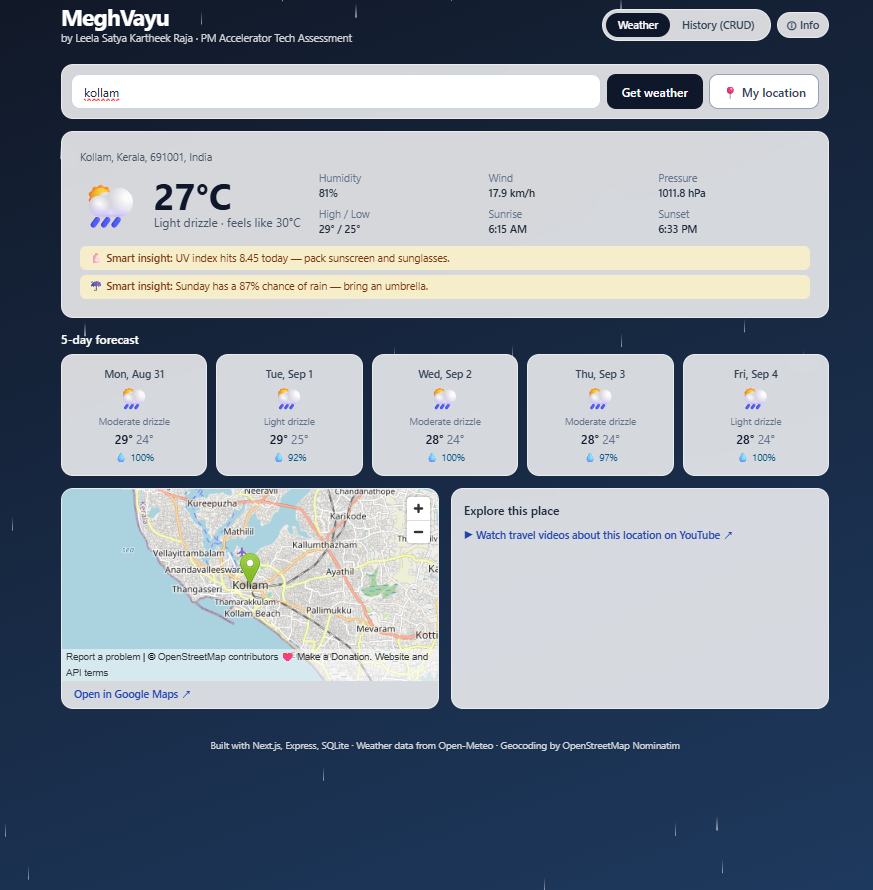
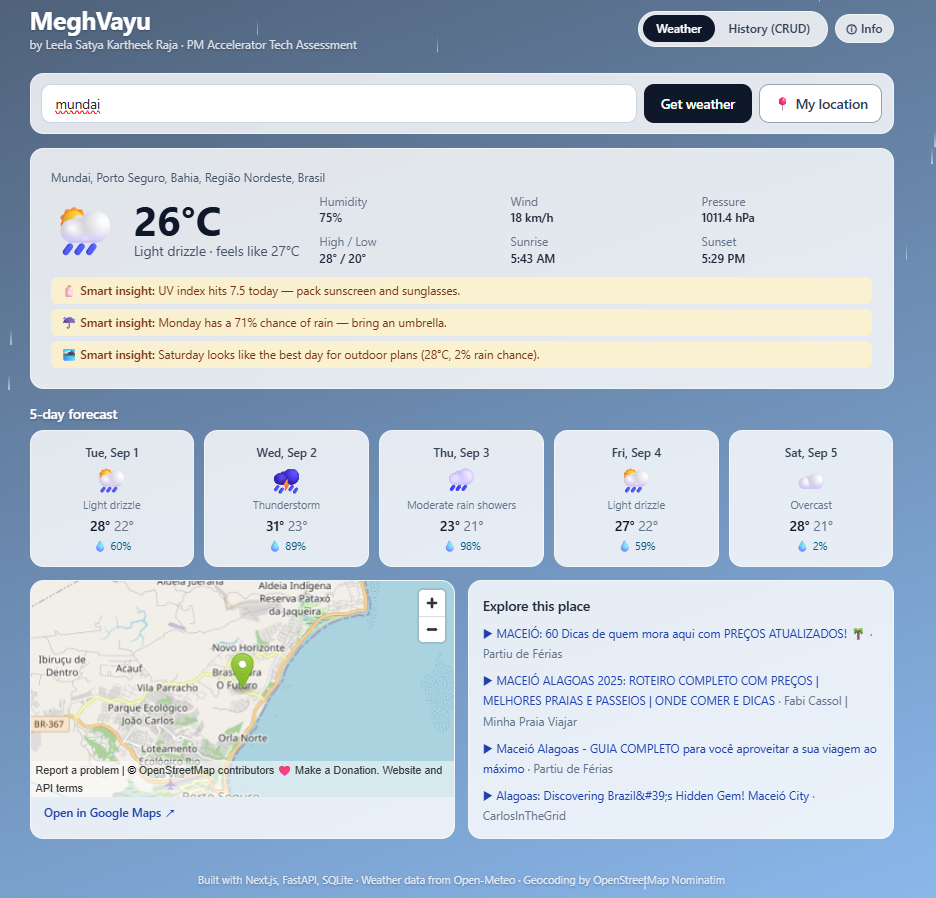
Final README with video link and updated screenshots

diff --git a/README.md b/README.md
@@ -1,38 +1,48 @@
-# MeghVayu : Full-Stack Weather App
+# MeghVayu : Full Stack Weather App
 
 **PM Accelerator : AI Engineer Intern Technical Assessment (Full Stack: Assessment #1 + #2)**
 
 Built by: **Leela Satya Kartheek Raja**
 
-A full-stack weather application: real-time conditions and a 5-day forecast on the frontend, plus a REST API with database persistence (CRUD), validation, multi-format export, and additional API integrations on the backend. *MeghVayu* means "cloud and wind" in Telugu.
+A full stack weather application: real time conditions and a 5 day forecast on the frontend, plus a REST API with database persistence (CRUD), validation, multi format export, and additional API integrations on the backend. *MeghVayu* means "cloud and wind" in Telugu.
 
-**Stack:** Next.js (JavaScript) frontend + **Python (FastAPI)** backend with SQLite, as required for the Full Stack track. An equivalent Node/Express implementation of the same API is included in `backend-node/`: both backends expose identical endpoints and JSON shapes, pass the same 17-test suite, and can be swapped without touching the frontend.
+**Stack:** Next.js (JavaScript) frontend + **Python (FastAPI)** backend with SQLite, as required for the Full Stack track. An equivalent Node/Express implementation of the same API is included in `backend-node/`: both backends expose identical endpoints and JSON shapes, pass the same 17 test suite, and can be swapped without touching the frontend.
 
 ## 🔗 Live demo
 
 - **App:** [meghvayu](https://meghvayu.vercel.app/)
 <!-- - **API health check:** [API Health Check for backend-node](https://meghvayu-api.onrender.com/api/health) -->
 - **API health check:** [API Health Check for backend](https://meghvayu-api.onrender.com/api/health)
-- **API docs (auto-generated by FastAPI):** [meghvayu-api.onrender.com/docs](https://meghvayu-api.onrender.com/docs)
-- **Demo video:** ADD_YOUR_VIDEO_LINK
+- **API docs (auto generated by FastAPI):** [meghvayu-api.onrender.com/docs](https://meghvayu-api.onrender.com/docs)
+- **Demo video:** [Demo Video Link](https://youtu.be/AyEFckeBMoc)
 - The live deployment has both optional integrations enabled: OpenWeatherMap fallback and YouTube video listings.
 
-> Note: the backend runs on Render's free tier and sleeps when idle, so the first request may take about 30 seconds to wake up. Free-tier storage resets on redeploy, so saved records are not permanent on the live demo.
+> Note: the backend runs on Render's free tier and sleeps when idle, so the first request may take about 30 seconds to wake up. Free tier storage resets on redeploy, so saved records are not permanent on the live demo.
 
 ## Highlights
 
 - Both assessments (frontend + backend) in one integrated app
 - **17 unit tests** on validation, insights and provider logic : `cd backend && pytest`
-- **Smart insights**: rule-based analysis of the forecast produces traveler advice (pack layers, umbrella day, best outdoor day)
-- **Production resilience**: retry with backoff, 10-minute response cache, and an automatic fallback weather provider (added after a real rate-limit incident, see Debugging notes)
-- Condition-driven UI: background theme + ambient particles (rain/snow/stars/lightning) follow live weather; honors `prefers-reduced-motion`
+- **Smart insights**: rule based analysis of the forecast produces traveler advice (pack layers, umbrella day, best outdoor day)
+- **Production resilience**: every external dependency (weather and geocoding) has retry with backoff, an in memory cache, and an automatic fallback provider added after real rate limit incidents in production (see Debugging notes)
+- Condition driven UI: background theme + ambient particles (rain/snow/stars/lightning) follow live weather; honors `prefers-reduced-motion`
 - Zero API keys required to run locally
+
+
+## ⭐ What makes MeghVayu stand out
+
+- **Two complete backends, one API contract.** Python/FastAPI (primary) and Node/Express (reference) expose identical endpoints and pass identical 17 test suites, the twin suite is how the Python port was verified.
+- **No single point of failure.** Weather and geocoding each have retry with backoff, an in memory cache, and an automatic fallback provider. The app survived two real production rate limit incidents during development without user visible downtime after the fixes.
+- **Smart Insights.** A rule based engine turns raw forecast numbers into traveler decisions: pack layers, umbrella day, best outdoor day.
+- **Five documented debugging stories.** Real issues found and fixed the international zip code collisions, Excel encoding, native module builds, and shared IP rate limiting written up in Debugging notes below.
+- **Condition driven experience.** The theme and ambient particles (rain, snow, stars, lightning) follow the live weather of the searched city, with `prefers-reduced-motion` respected.
+- **Reviewer friendly by design.** Runs locally with zero API keys and zero database setup, deployed live with auto generated API docs, and fully documented in this README.
 
 ---
 
 ## Smart Insights engine
 
-The backend includes a rule-based insights engine (`backend/services/insights.py`) that analyzes
+The backend includes a rule based insights engine (`backend/services/insights.py`) that analyzes
 live forecast data and generates actionable traveler advice, the "what's not obvious" thinking
 the assessment asks for:
 
@@ -40,18 +50,18 @@ the assessment asks for:
 - **Temperature swings ≥8°C across the week** → pack layers
 - **First day with ≥60% rain probability** → umbrella advice, day named
 - **Winds ≥35 km/h** → wind warning
-- **Extreme heat (≥35°C) / sub-freezing days** → safety notes
+- **Extreme heat (≥35°C) / sub freezing days** → safety notes
 - **Best outdoor day** → scores each day on rain, wind, and distance from ideal temperature
 
-Insights are computed server-side per request, capped at 4 for scannability, and unit-tested.
+Insights are computed server side per request, capped at 4 for scannability, and unit tested.
 
 **Design note:** this is deliberately deterministic rules rather than an LLM call : zero latency,
-zero cost, fully testable. The architecture supports swapping in an LLM for natural-language
+zero cost, fully testable. The architecture supports swapping in an LLM for natural language
 weather summaries as a next step.
 
 ## Screenshots
 
-##### Live weather with condition-driven theme and smart insights
+##### Live weather with condition driven theme and smart insights
 ![Live weather with smart insights](screenshots/weather.png)
 
 ##### Weather history : CRUD with database persistence and exports
@@ -69,13 +79,13 @@ weather summaries as a next step.
 
 | Layer | Technology | Why |
 |---|---|---|
-| Frontend | **Next.js 14 (React)** + Tailwind CSS | JS framework per assessment rules; responsive, web-first |
+| Frontend | **Next.js 14 (React)** + Tailwind CSS | JS framework per assessment rules; responsive, web first |
 | Backend | **Python 3.11+ + FastAPI** (uvicorn) | RESTful API with automatic OpenAPI docs at `/docs`; Python per the Full Stack track requirement |
-| Database | **SQLite** (Python standard library `sqlite3`) | Zero-config persistence, reviewers can run it with no DB setup |
+| Database | **SQLite** (Python standard library `sqlite3`) | Zero config persistence, reviewers can run it with no DB setup |
 | Alt. backend | Node.js + Express (`backend-node/`) | Same API contract; included as a reference implementation |
-| Weather data (primary) | **Open-Meteo** (forecast + historical archive APIs) | Free, no API key, supports past date ranges |
-| Weather data (fallback) | **OpenWeatherMap** (optional key) | Per-key limits, keeps the live site working when the primary provider is rate-limited |
-| Geocoding | **OpenStreetMap Nominatim** | Free fuzzy matching for cities, zips, landmarks, coordinates |
+| Weather data (primary) | **Open Meteo** (forecast + historical archive APIs) | Free, no API key, supports past date ranges |
+| Weather data (fallback) | **OpenWeatherMap** (optional key) | Per key limits, keeps the live site working when the primary provider is rate limited |
+| Geocoding | **OpenStreetMap Nominatim** (primary) + **OpenWeatherMap Geocoding** (fallback) | Free fuzzy matching for cities, zips, landmarks, coordinates; fallback keeps search working when Nominatim throttles the shared host IP |
 | Extra APIs | OpenStreetMap embed, Google Maps link, **YouTube Data API v3** (optional key) | Assessment section 2.2 : map data + real video listings for the searched location |
 
 No API keys are required to run the app locally. Two optional keys unlock extras:
@@ -123,25 +133,25 @@ Run either backend, not both at once (they share port 4000).
 ## Assessment 1 [Frontend features]
 
 - **Flexible location input**: one search box accepts city, town, zip/postal code, landmarks ("Eiffel Tower"), or raw GPS coordinates ("40.71,-74.00"). Input is geocoded with fuzzy matching, and the resolved place name is always shown so the user can confirm.
-- **Current location**: "📍 My location" uses the browser Geolocation API (with permission-denied and timeout handling).
-- **Current weather display**: temperature, feels-like, condition + icon, humidity, wind, pressure, high/low, sunrise/sunset.
-- **5-day forecast** (§1.1): responsive card grid with icons, conditions, highs/lows, and precipitation chance.
+- **Current location**: "📍 My location" uses the browser Geolocation API (with permission denied and timeout handling).
+- **Current weather display**: temperature, feels like, condition + icon, humidity, wind, pressure, high/low, sunrise/sunset.
+- **5 day forecast** (§1.1): responsive card grid with icons, conditions, highs/lows, and precipitation chance.
 - **Error handling** (§1.2): location not found, backend unreachable, upstream API failure, geolocation denied, empty input. Each shows a clear, actionable message.
-- **Responsive design**: Tailwind mobile-first breakpoints (`sm/md/lg`), fluid grids (2→3→5 forecast columns), flexible search bar layout. Works on phone, tablet, and desktop.
+- **Responsive design**: Tailwind mobile first breakpoints (`sm/md/lg`), fluid grids (2→3→5 forecast columns), flexible search bar layout. Works on phone, tablet, and desktop.
 - **Traveler-minded extras**: smart insights, sunrise/sunset for planning, and a signature touch: the page background theme and ambient effects shift with live conditions (clear/cloudy/rain/snow/storm, day vs night).
 
 ## Assessment 2 [Backend features]
 
-REST API (all JSON, central error handler, auto-generated OpenAPI docs at `/docs`):
+REST API (all JSON, central error handler, auto generated OpenAPI docs at `/docs`):
 
 | Method | Endpoint | Purpose |
 |---|---|---|
 | GET | `/api/health` | Health check |
-| GET | `/api/weather?location=…` or `?lat=…&lon=…` | Current weather + 5-day forecast + insights |
+| GET | `/api/weather?location=…` or `?lat=…&lon=…` | Current weather + 5 day forecast + insights |
 | POST | `/api/records` | **CREATE** : location + date range → fetches real temps → stores |
 | GET | `/api/records` | **READ** all stored records |
 | GET | `/api/records/:id` | **READ** one record |
-| PUT | `/api/records/:id` | **UPDATE** : re-validates; re-fetches temps if location/range changed |
+| PUT | `/api/records/:id` | **UPDATE** : revalidates; refetches temps if location/range changed |
 | DELETE | `/api/records/:id` | **DELETE** a record |
 | GET | `/api/export?format=json\|csv\|xml\|markdown` | **Export** (§2.3) all records as file download |
 | GET | `/api/extras?location=…` | **§2.2** : map embed + Google Maps link + YouTube videos |
@@ -149,15 +159,15 @@ REST API (all JSON, central error handler, auto-generated OpenAPI docs at `/docs
 **API integration** (§2.2): `/api/extras` returns an embedded map centered on the geocoded coordinates, a Google Maps deep link, and YouTube travel videos for the location. Videos are fetched from the YouTube Data API v3 when `YOUTUBE_API_KEY` is set (as on the live demo) and fall back to a search link otherwise.
 
 **Validation** (§2.1):
-- Date ranges: format, real calendar dates (rejects 2024-02-31), start ≤ end, ≤31 days, within Open-Meteo's data window (1940 → +16 days).
+- Date ranges: format, real calendar dates (rejects 2024-02-31), start ≤ end, ≤31 days, within Open Meteo's data window (1940 → +16 days).
 - Locations: must resolve via geocoder (fuzzy match allowed); clear 404 with suggestions if not found.
-- Updates: same validation; `temperature_data` is always re-derived from the APIs when location/dates change, so stored weather can never contradict the stored location. Users edit location/dates/notes, not raw temperatures.
+- Updates: same validation; `temperature_data` is always rederived from the APIs when location/dates change, so stored weather can never contradict the stored location. Users edit location/dates/notes, not raw temperatures.
 
 **Design decisions**:
-- Historical ranges use Open-Meteo's archive API; near-future ranges use the forecast API. The correct source is chosen automatically.
+- Historical ranges use Open Meteo's archive API; near future ranges use the forecast API. The correct source is chosen automatically.
 - SQLite chosen deliberately: reviewers clone and run with zero database setup. Swappable for Postgres via the single `db.py` module.
-- FastAPI chosen for the backend: type-hinted request handling, automatic OpenAPI documentation, and it is the natural home for future AI/ML features (the role is AI Engineer).
-- Weather requests go through a retry-with-backoff layer and a 10-minute in-memory cache; if the primary provider fails, the backend transparently switches to OpenWeatherMap and normalizes its data into the same response shape, so the frontend never changes.
+- FastAPI chosen for the backend: type hinted request handling, automatic OpenAPI documentation, and it is the natural home for future AI/ML features (the role is AI Engineer).
+- Weather requests go through a retry with backoff layer and a 10 minute in memory cache; if the primary provider fails, the backend transparently switches to OpenWeatherMap and normalizes its data into the same response shape, so the frontend never changes. Geocoding follows the same pattern: Nominatim primary with a 1 hour cache, OpenWeatherMap Geocoding API as fallback (including US zip and reverse lookups). No external dependency is a single point of failure.
 
 ## Project structure
 
@@ -166,31 +176,33 @@ backend/                   Python / FastAPI (primary)
   main.py                  App, CORS, central error handling
   db.py                    SQLite schema + connection
   errors.py                ApiError -> clean JSON error responses
-  services/geocode.py      Nominatim geocoding (fuzzy, zips, landmarks, GPS)
-  services/weather.py      Open-Meteo calls, retry/cache layer, date-range validation
-  services/openweather.py  OpenWeatherMap fallback provider (normalized to Open-Meteo shape)
-  services/insights.py     Rule-based smart insights engine
+  services/geocode.py      Nominatim geocoding + cache + OWM geocoding fallback
+  services/weather.py      Open Meteo calls, retry/cache layer, date range validation
+  services/openweather.py  OpenWeatherMap fallback provider (normalized to Open Meteo shape)
+  services/insights.py     Rule based smart insights engine
   routes/                  weather, records (CRUD), export, extras
   tests/                   Unit tests (pytest)
   requirements.txt
 backend-node/              Node.js / Express reference implementation of the same API
   server.js                Express app + central error handling
-  db.js                    SQLite (better-sqlite3) schema + connection
+  db.js                    SQLite (better sqlite3) schema + connection
   services/                geocode, weather (retry/cache), openweather (fallback), insights
   routes/                  weather, records (CRUD), export, extras
   tests/                   Unit tests (node:test)
   package.json
 frontend/
-  app/                     Next.js app router pages + condition-driven theming
+  app/                     Next.js app router pages + condition driven theming
   components/              WeatherPanel, RecordsPanel (CRUD UI), WeatherEffects, shared lib
 ```
 
 ## Debugging notes (real issues found & fixed)
 
-1. **Ambiguous zip codes resolved internationally.** Testing with `76201` (Denton, TX) returned Šiauliai, Lithuania : Nominatim matched the digits to a foreign postal code. Fix: bare 5-digit codes are now biased to `countrycodes=us`, while longer codes (e.g., Indian 6-digit PINs) and "zip, country" queries still resolve worldwide. Verified with mixed US/India test data.
-2. **CSV exports showed garbled characters in Excel.** Non-ASCII place names (Cyrillic, Lithuanian) rendered as mojibake because Excel doesn't assume UTF-8. Fix: prepend a UTF-8 BOM to CSV output.
-3. **Node 24 native-module build failure** (Node reference backend). `better-sqlite3@11` had no prebuilt binary for Node 24 and attempted a source compile requiring Visual Studio C++ tools. Fix: upgraded to `better-sqlite3@^12`, which ships Node 24 prebuilds. The Python backend avoids native modules entirely by using the standard-library `sqlite3`.
-4. **Shared-IP rate limiting in production.** After deploying to Render's free tier, weather requests started failing. The generic error hid the cause, so the first fix was surfacing the upstream status: `HTTP 429, Daily API request limit exceeded`. Render's free tier shares one outbound IP across many apps, and Open-Meteo's 10,000/day per-IP limit had been exhausted by other tenants. Fix: retry with backoff, a 10-minute response cache, and an automatic fallback to OpenWeatherMap (per-key limits, immune to shared IPs), normalized into the same response shape so no frontend changes were needed. Localhost was never affected because it uses its own IP.
+1. **Ambiguous zip codes resolved internationally.** Testing with `76201` (Denton, TX) returned Šiauliai, Lithuania : Nominatim matched the digits to a foreign postal code. Fix: bare 5 digit codes are now biased to `countrycodes=us`, while longer codes (e.g., Indian 6 digit PINs) and "zip, country" queries still resolve worldwide. Verified with mixed US/India test data.
+2. **CSV exports showed garbled characters in Excel.** Non ASCII place names (Cyrillic, Lithuanian) rendered as mojibake because Excel doesn't assume UTF-8. Fix: prepend a UTF-8 BOM to CSV output.
+3. **Node 24 native-module build failure** (Node reference backend). `better-sqlite3@11` had no prebuilt binary for Node 24 and attempted a source compile requiring Visual Studio C++ tools. Fix: upgraded to `better-sqlite3@^12`, which ships Node 24 prebuilds. The Python backend avoids native modules entirely by using the standard library `sqlite3`.
+4. **Shared IP rate limiting in production.** After deploying to Render's free tier, weather requests started failing. The generic error hid the cause, so the first fix was surfacing the upstream status: `HTTP 429, Daily API request limit exceeded`. Render's free tier shares one outbound IP across many apps, and Open Meteo's 10,000/day per IP limit had been exhausted by other tenants. Fix: retry with backoff, a 10 minute response cache, and an automatic fallback to OpenWeatherMap (per key limits, immune to shared IPs), normalized into the same response shape so no frontend changes were needed. Localhost was never affected because it uses its own IP.
+
+5. **Geocoding throttled on the shared IP.** A day after the weather provider incident, Nominatim searches began failing on the deployed backend for the same underlying reason: Nominatim enforces strict per IP fair use limits, and the shared free tier IP was throttled. Fix: applied the same resilience pattern to geocoding a 1 hour result cache and an automatic fallback to the OpenWeatherMap Geocoding API (direct, US zip, and reverse endpoints), reusing the key already configured for the weather fallback.
 
 ## Testing
 
@@ -206,8 +218,8 @@ cd backend-node
 npm test
 ```
 
-Each suite has 17 tests covering date-range validation (format, impossible dates like Feb 31, range limits, archive/forecast windows), GPS coordinate parsing, the insights engine, and the fallback provider's condition-code mapping. Keeping both suites identical is how the Python port was verified against the original Node implementation.
+Each suite has 17 tests covering date range validation (format, impossible dates like Feb 31, range limits, archive/forecast windows), GPS coordinate parsing, the insights engine, and the fallback provider's condition code mapping. Keeping both suites identical is how the Python port was verified against the original Node implementation.
 
 ## About PM Accelerator
 
-The Product Manager Accelerator Program supports PM professionals through every stage of their career, from students seeking their first PM role to directors and leaders growing their leadership skills via hands-on training, coaching, and a global community. See their [LinkedIn page](https://www.linkedin.com/school/pmaccelerator/).
+The Product Manager Accelerator Program supports PM professionals through every stage of their career, from students seeking their first PM role to directors and leaders growing their leadership skills via hands on training, coaching, and a global community. See their [LinkedIn page](https://www.linkedin.com/school/pmaccelerator/).
